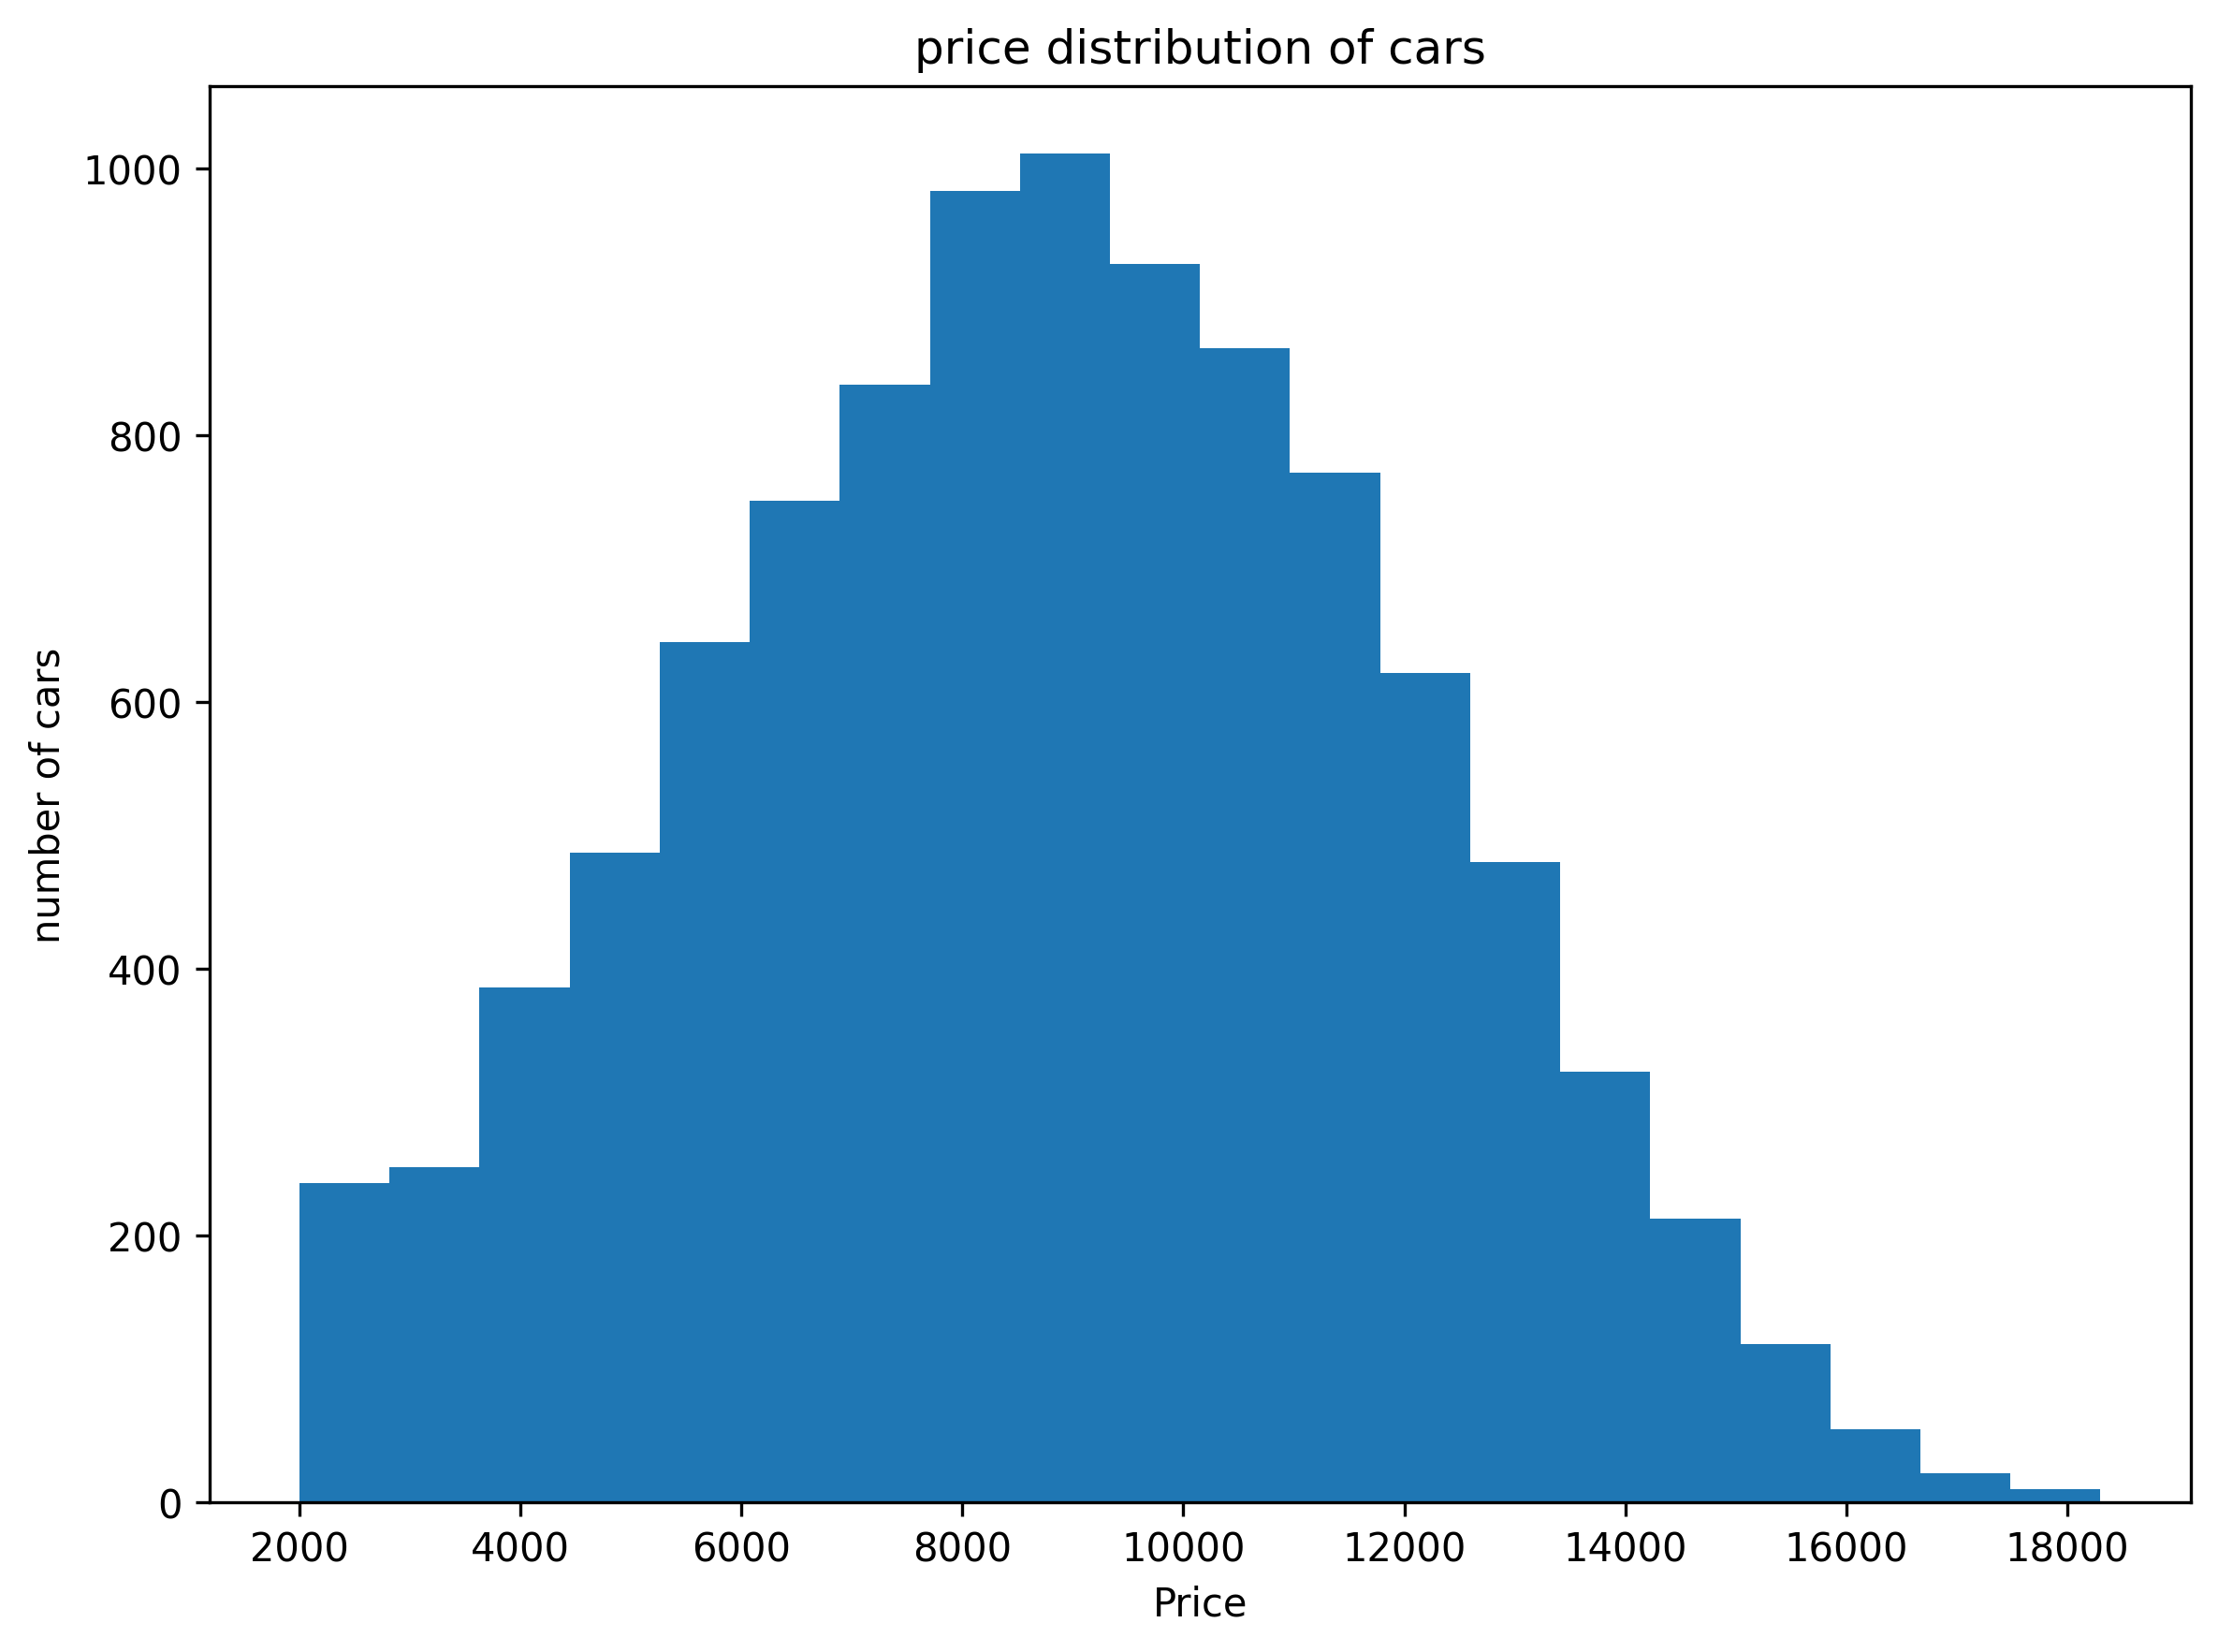
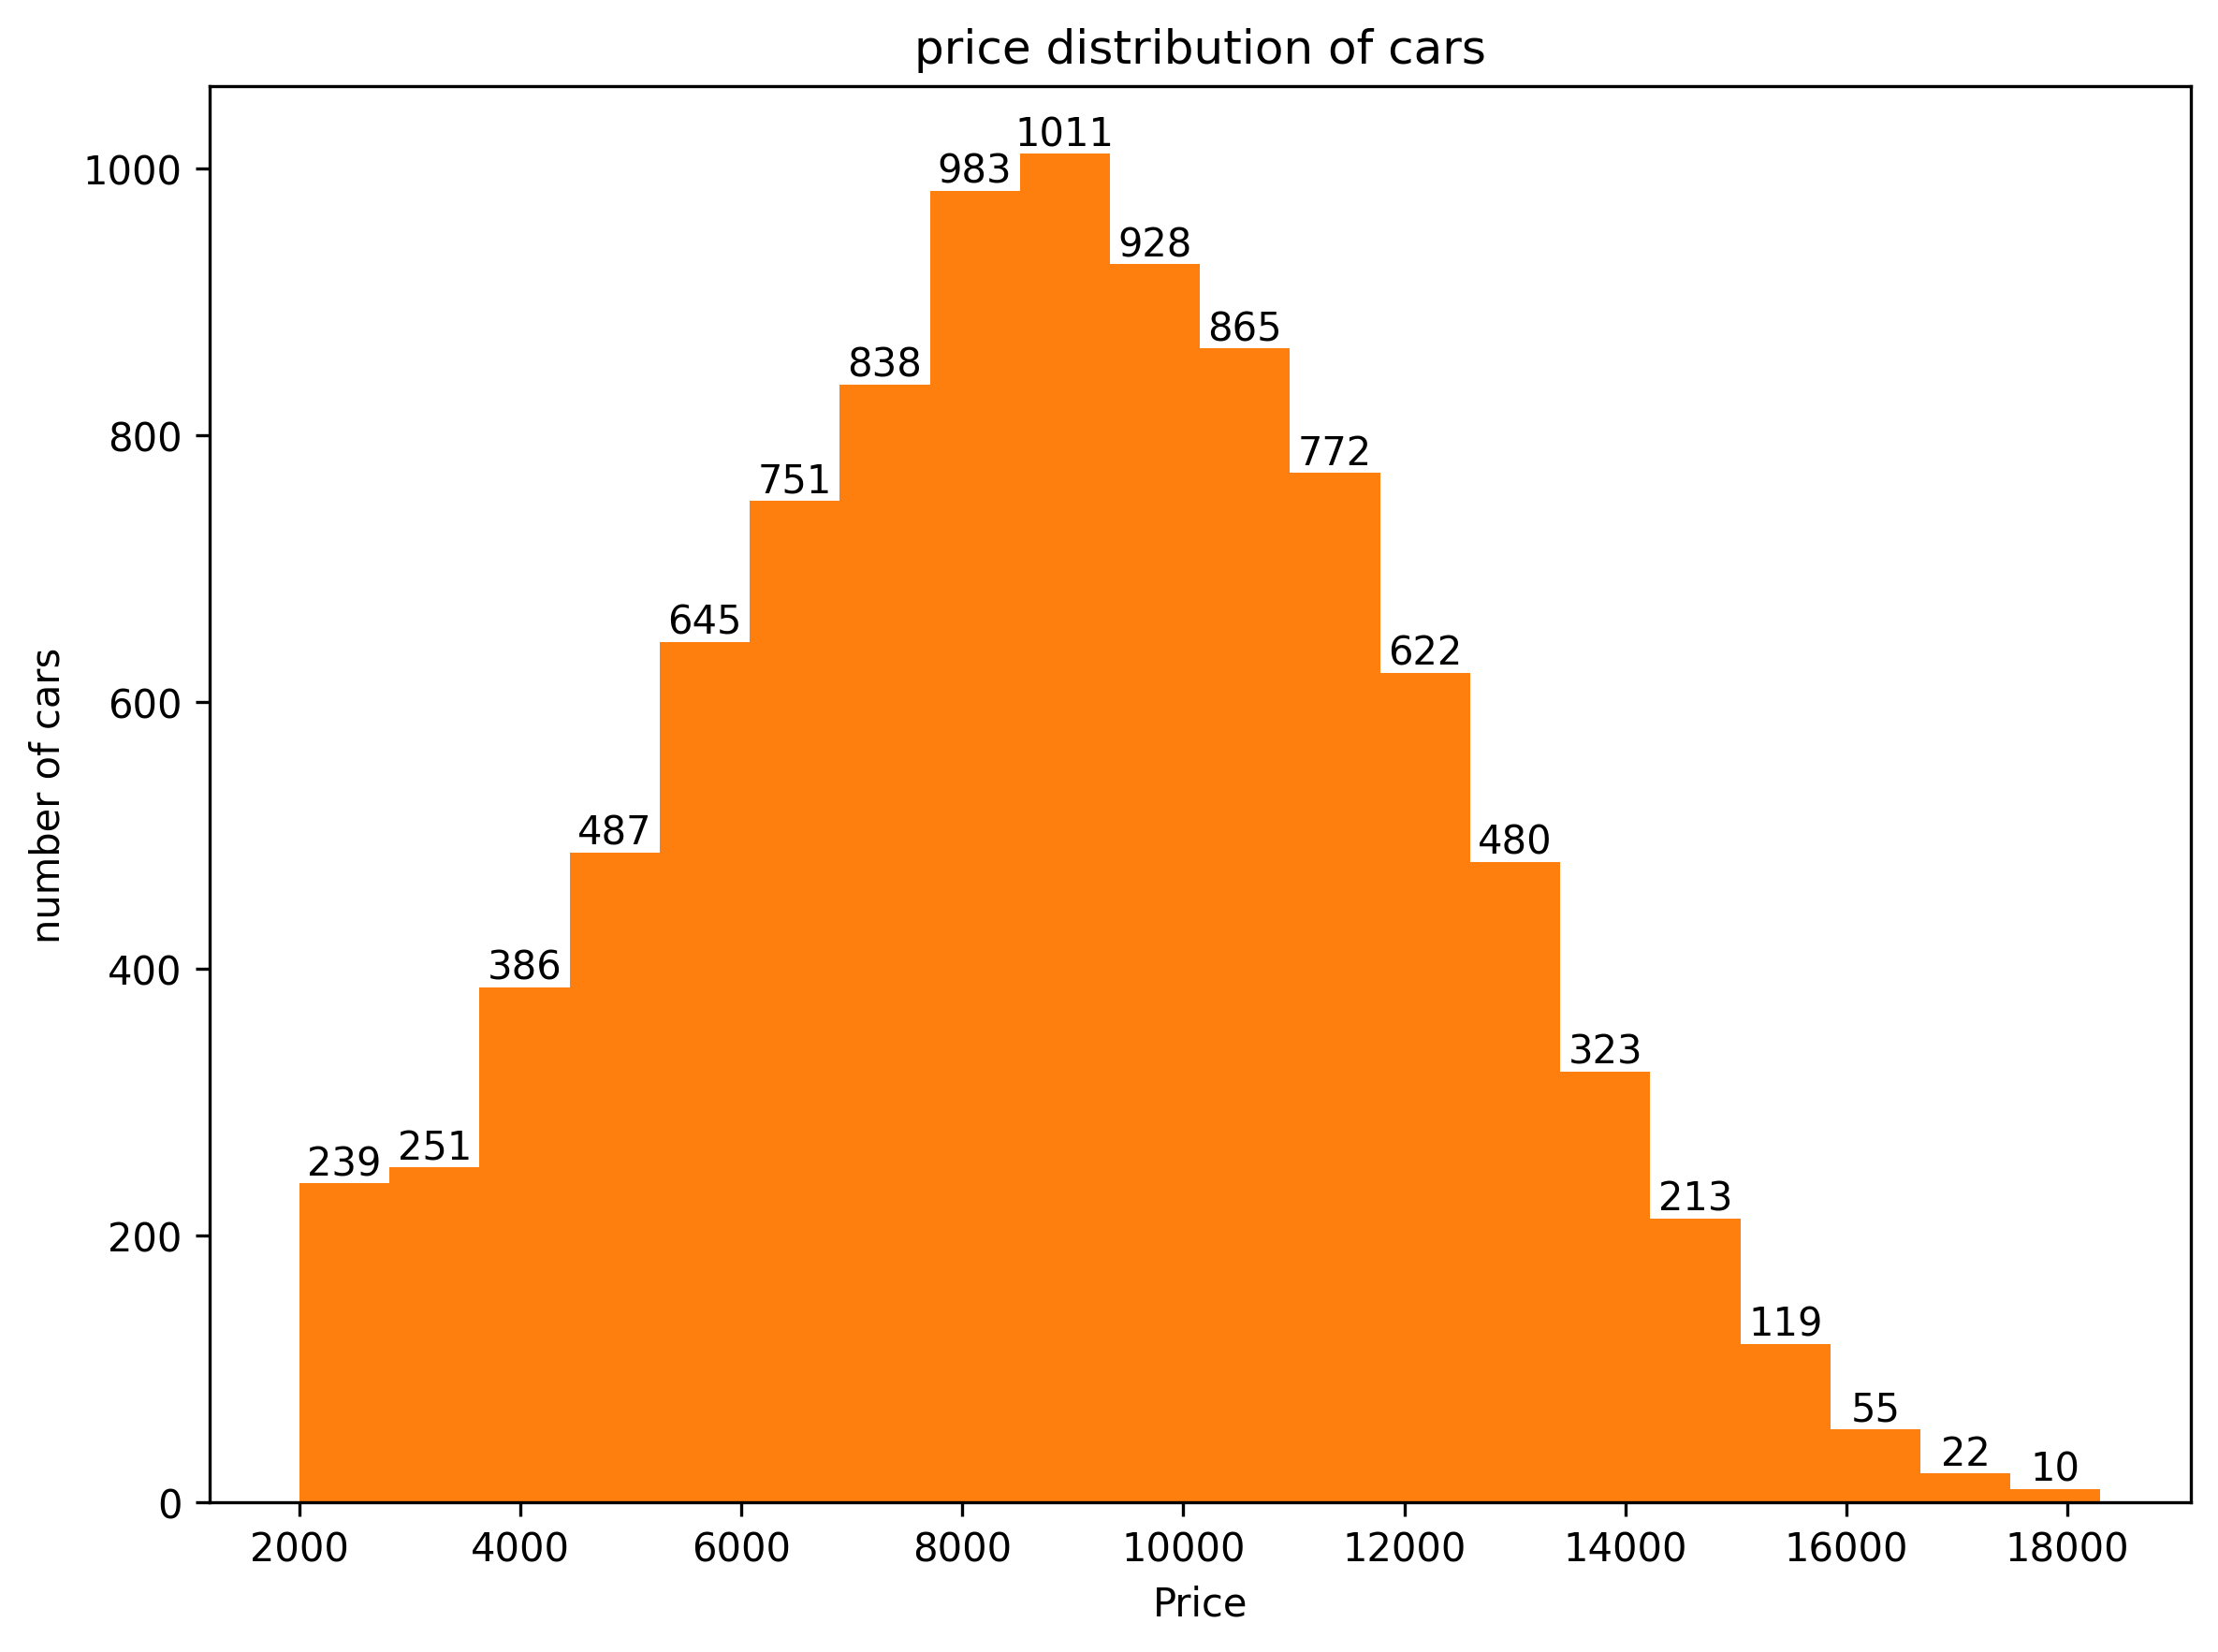
bugfixar

diff --git a/src/plots.py b/src/plots.py
@@ -3,14 +3,25 @@ import pandas as pd
 df = pd.read_csv("car_price_dataset.csv", sep=";")
 
 
-
 plt.figure(figsize=(8,6))
+
+counts, bins, patches = plt.hist(df["Price"], bins=20)
 
 plt.hist(df["Price"], bins=20)
 
 plt.xlabel("Price")
 plt.ylabel("number of cars")
 plt.title("price distribution of cars")
+
+# skriver siffror ovanpå staplarna
+for count, patch in zip(counts, patches):
+    plt.text(
+        patch.get_x() + patch.get_width() / 2,
+        patch.get_height(),
+        int(count),
+        ha='center',
+        va='bottom'
+    )
 
 plt.tight_layout()
 